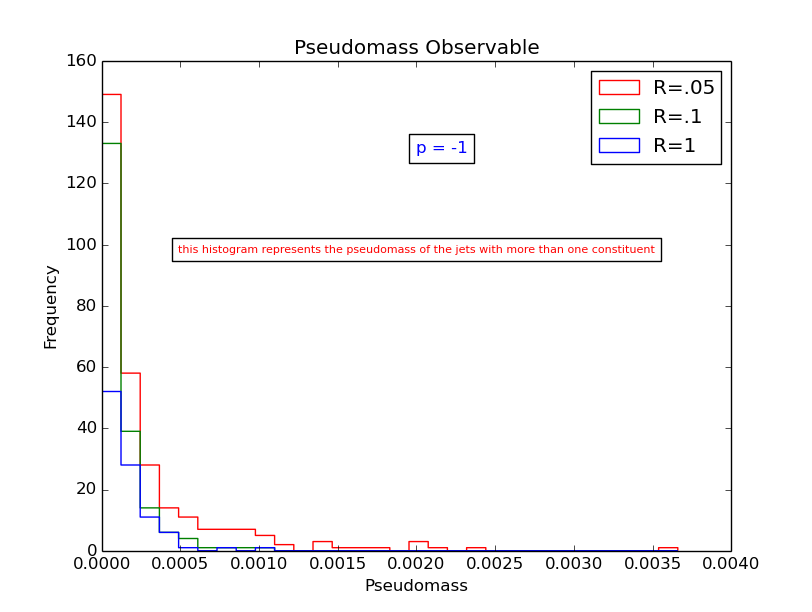
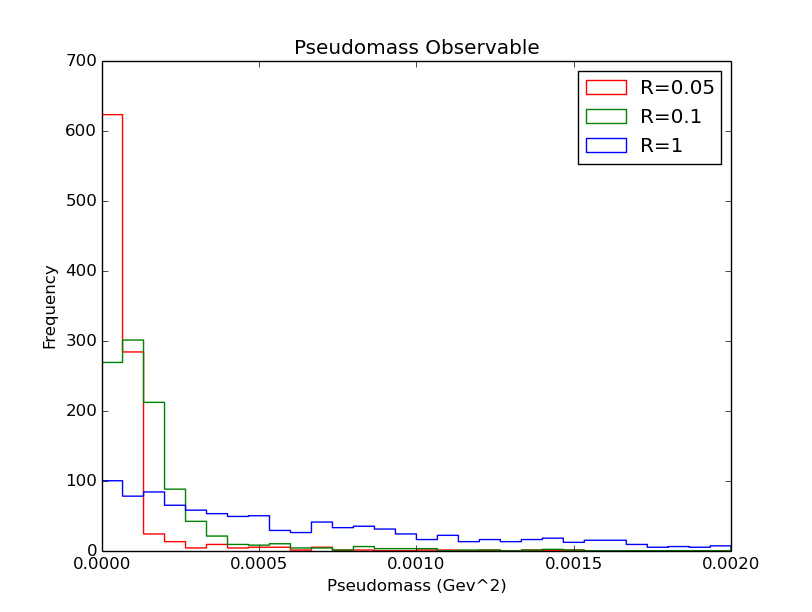
draft

diff --git a/hist_pseudomass.py b/hist_pseudomass.py
@@ -23,8 +23,8 @@ p = delete_none(n)
 l = delete_none(k)
 s = delete_none(m)
 
-plt.hist([p, l, s], bins=30, histtype='step',range = (0,0.002),label=['R=1', 'R=.1', 'R=.05'], fill = False, cumulative = False, stacked = False, color=['blue', 'green', 'red'])
-plt.xlabel('Pseudomass (Gev)')
+plt.hist([s, p, l], bins=30, histtype='step',range = (0,0.002),label=['R=1', 'R=0.1', 'R=0.05'], fill = False, cumulative = False, stacked = False, color=['blue', 'green', 'red'])
+plt.xlabel('Pseudomass (Gev^2)')
 plt.ylabel('Frequency')
 #plt.text(.0020,100,'this histogram represents the pseudomass of the jets with more than one constituent', color ='red', fontsize=8, bbox = {'facecolor': 'white', 'pad':9}, verticalalignment='top', horizontalalignment='center')
 plt.text(0.004,900,'p = -1', color = 'blue', bbox= {'facecolor': 'white', 'pad':10})

diff --git a/hist_n_of_Jets.py b/hist_n_of_Jets.py
@@ -6,8 +6,12 @@ n = pickle.load(f)
 k = pickle.load(f)
 m = pickle.load(f)
 
+print('R=1', n, sep='\n')
+print('R=.1', k, sep='\n')
+print('R=.05', m, sep='\n')
 
-plt.hist([n, k, m], bins=30, histtype='step',label=['R=1', 'R=.1', 'R=.05'], fill = False, cumulative = False, stacked = True, color=['blue', 'green', 'red'])
+
+plt.hist([n, k, m], bins=30, histtype='step',label=['R=1', 'R=.1', 'R=.05'], fill = False, cumulative = False, stacked = False, color=['blue', 'green', 'red'])
 plt.xlabel('Number of Jets')
 plt.ylabel('Frequency')
 #plt.text(50,25,'This the number of constituents in the Jet with highest energy', color ='red', fontsize=8, bbox = {'facecolor': 'white', 'pad':9}, verticalalignment='top', horizontalalignment='center')

diff --git a/hist_of_n_of_constituents.py b/hist_of_n_of_constituents.py
@@ -8,7 +8,7 @@ m = pickle.load(f)
 
 
 
-plt.hist([n, k, m], bins=30, range=(0, 300), histtype='step',label=['R=1', 'R=.1', 'R=.05'], fill = False, cumulative = False, stacked = True, color=['blue', 'green', 'red'])
+plt.hist([m, n, k], bins=30, range=(0, 300), histtype='step',label=['R=1', 'R=0.1', 'R=0.05'], fill = False, cumulative = False, stacked = False, color=['blue', 'green', 'red'])
 plt.xlabel('Number of constituents')
 plt.ylabel('Frequency')
 #plt.text(300,1400,'This the number of constituents in the Jet with highest energy', color ='red', fontsize=8, bbox = {'facecolor': 'white', 'pad':9}, verticalalignment='top', horizontalalignment='center')
